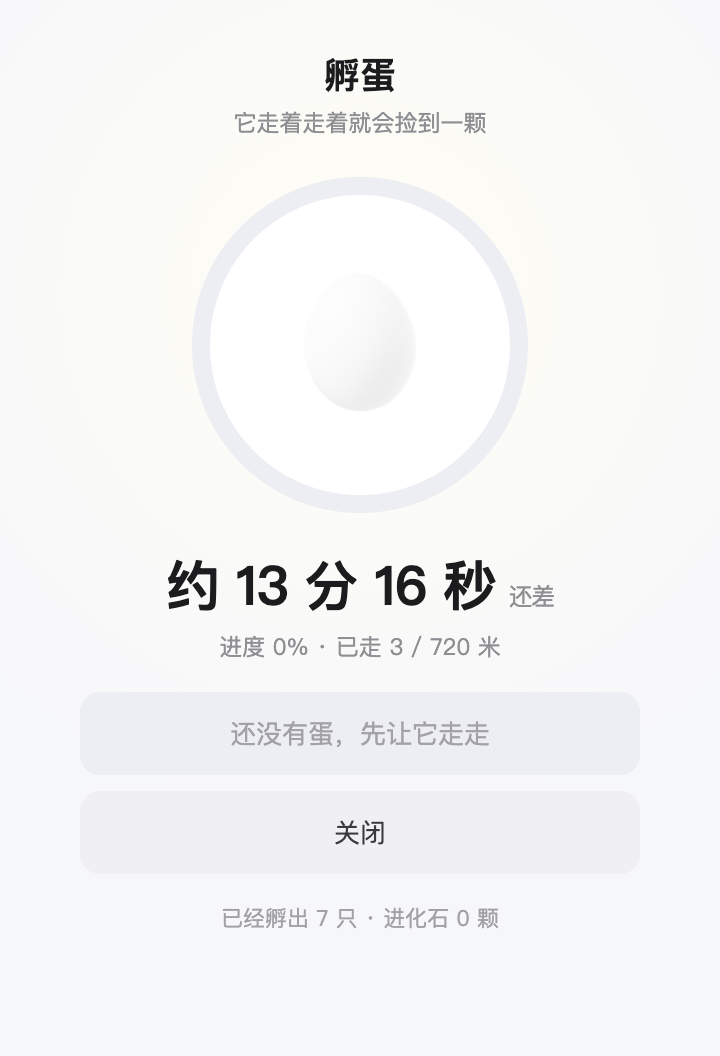
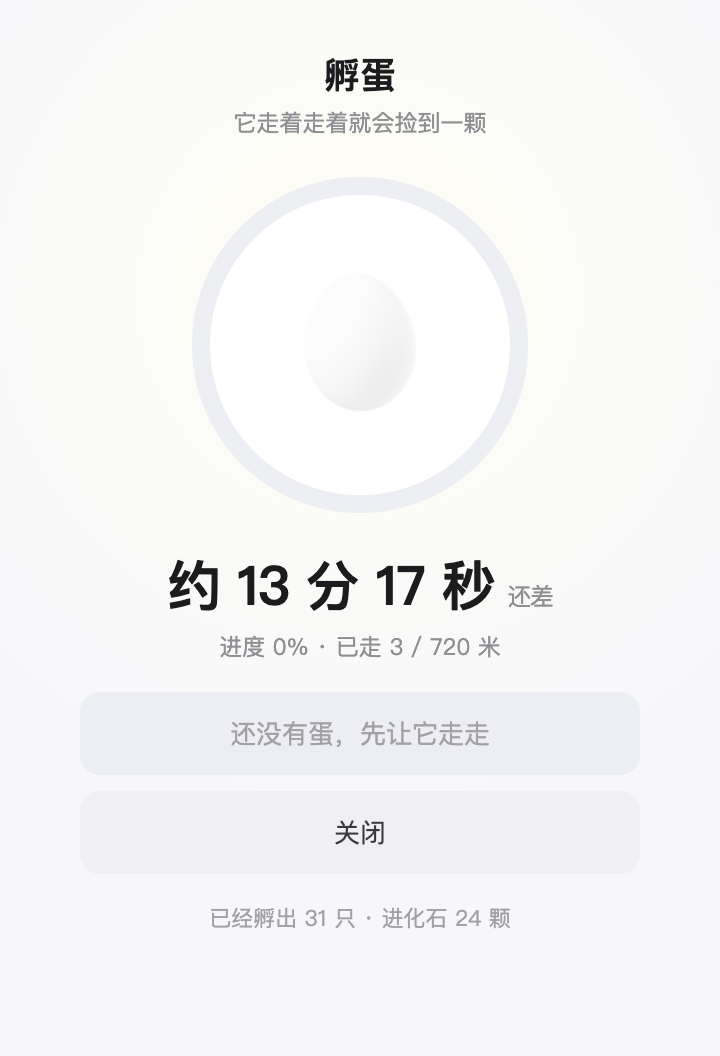
孵化后重置走路进度，蛋页倒计时重新计算；测试变量 PET_EGG 与蛋距离解耦

diff --git a/main.js b/main.js
@@ -210,7 +210,7 @@ function natureFor(dex) {
 }
 let currentNature = NATURES[0];
 let walkedPx = 0;        // 走了多少像素，攒够了给颗蛋
-const EGG_AT = Number(process.env.PET_EGG || 36000);
+const EGG_AT = Number(process.env.PET_EGG_AT || 36000);
 let hasEgg = false;
 let guestWin = null;     // 串门的另一只
 let guest = null;        // { dex, x, dir, until, phase: 'in'|'stay'|'out' }
@@ -402,6 +402,7 @@ function doHatch() {
   bubble(lang === 'en' ? `It hatched! ${target.name}!` : `蛋孵出来啦！是 ${target.name}！`, 4200, true);
   try { playCry(target.dex, true); } catch (_) {}
   counters.hatch = (counters.hatch || 0) + 1;
+  walkedPx = 0;                       // 孵完重新攒下一颗
   addStone(1);
   saveState();
   console.log('[hatch] 孵出', target.dex, target.name, '| 有前置进化?', !!target.from);

diff --git a/renderer/egg.js b/renderer/egg.js
@@ -35,7 +35,11 @@ function render(d) {
     subEl.textContent = '蛋已经捡到了';
   } else {
     const leftPx = Math.max(0, (1 - (d.eggProgress || 0)) * d.eggAt);
-    timerEl.innerHTML = `约 ${fmt(leftPx / SPEED)}<small> 还差</small>`;
+    if (leftPx <= 1) {
+      timerEl.innerHTML = '马上就有<small> 就差一点</small>';
+    } else {
+      timerEl.innerHTML = `约 ${fmt(leftPx / SPEED)}<small> 还差</small>`;
+    }
     const walked = Math.round((d.eggProgress || 0) * d.eggAt / 50);
     const total = Math.round(d.eggAt / 50);
     statEl.textContent = `进度 ${Math.round((d.eggProgress || 0) * 100)}% · 已走 ${walked} / ${total} 米`;
